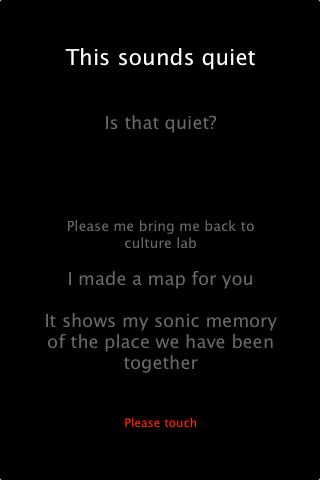
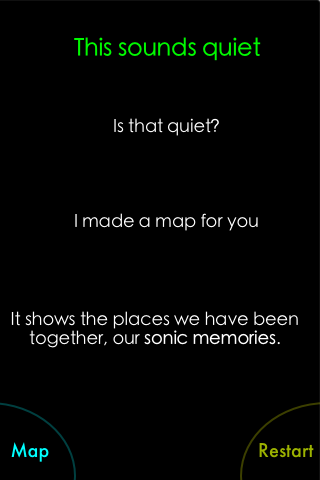
new gui

diff --git a/quietWalkApp/src/endScene.cpp b/quietWalkApp/src/endScene.cpp
@@ -16,8 +16,8 @@ void endScene::draw(){
     else{
         failureEnd.draw(0, 0);
     }
-    ofSetColor(255, 0, 0);
-    ofDrawBitmapString("OPEN MAP PLACEHOLDER BUTTON", ofPoint(0,28));
+   // ofSetColor(255, 0, 0);
+    //ofDrawBitmapString("OPEN MAP PLACEHOLDER BUTTON", ofPoint(0,28));
     ofPopStyle();
 }
 void endScene::stop(){
@@ -36,7 +36,7 @@ void endScene::setState(int _state){
 void endScene::touch(ofPoint touch){
     ofPoint buttPos;
     float w ,h;
-    if(state==0){
+    /*if(state==0){
         buttPos = ofPoint(160,423);
         w = 82;
         h= 38;
@@ -44,14 +44,17 @@ void endScene::touch(ofPoint touch){
         buttPos = ofPoint(160,454);
         w = 92;
         h= 38;
-    }
+    }*/
+   buttPos = ofPoint(240,400);
+    w = 110;
+    h= 110;
     cout<<"touched";
     if(inBounds(buttPos,w,h,touch)){
         stop();
     }
-    ofPoint mapButton= ofPoint(0,0);
-    w = ofGetWidth();
-    h= 28;
+    ofPoint mapButton= ofPoint(0,400);
+    w = 110;
+    h= 110;
     if(inBounds(mapButton,w,h,touch)){
         stop();
         pageOpened= true;

diff --git a/quietWalkApp/src/testApp.mm b/quietWalkApp/src/testApp.mm
@@ -57,7 +57,7 @@ void testApp::update(){
     sceneManager.update(coreLocation->getLatitude(),coreLocation->getLongitude());
     //sceneManager.update(loc.x,loc.y);
     if(sceneManager.getPageOpened()){
-        string url = "http://di.ncl.ac.uk/quietwalk/multixmlmarkers.html";
+        string url = "http://di.ncl.ac.uk/quietwalk/map.html";
         cout<<"page opened in testApp"<<endl;
         ofxiPhoneLaunchBrowser(url);
 //        sceneManager.setPageOpened(false);

diff --git a/quietWalkApp/src/directionScene.cpp b/quietWalkApp/src/directionScene.cpp
@@ -42,9 +42,9 @@ bool directionScene::getSceneHasEnded(){
     return sceneHasEnded;
 }
 void directionScene::touch(ofPoint touch){
-    ofPoint buttPos = ofPoint(98,291);
-    float w = 116;
-    float h= 24;
+    ofPoint buttPos = ofPoint(100,320);
+    float w = 125;
+    float h= 40;
     cout<<"touched";
     if(inBounds(buttPos,w,h,touch)){
         stop();

diff --git a/quietWalkApp/src/welcomeScene.cpp b/quietWalkApp/src/welcomeScene.cpp
@@ -23,9 +23,9 @@ bool welcomeScene::getSceneHasEnded(){
     return sceneHasEnded;
 }
 void welcomeScene::touch(ofPoint touch){
-    ofPoint buttPos = ofPoint(117,417);
-    float w = 97;
-    float h= 27;
+    ofPoint buttPos = ofPoint(100,350);
+    float w = 124;
+    float h= 120;
     cout<<"touched";
     if(inBounds(buttPos,w,h,touch)){
         stop();

diff --git a/quietWalkApp/src/readyScreen.cpp b/quietWalkApp/src/readyScreen.cpp
@@ -1,7 +1,7 @@
 #include "readyScreen.h"
 ////////////////////////---------/////////////////////////////////////
 void readyScreen::setup(){
-    readyScreenImage.loadImage("images/Screen01a.png");
+    readyScreenImage.loadImage("images/Screen01.png");
 }
 void readyScreen::start(){
     sceneHasEnded = false;

diff --git a/quietWalkApp/src/listenScene.cpp b/quietWalkApp/src/listenScene.cpp
@@ -21,7 +21,7 @@ void listenScene::stop(){
     cout<<"sceneHasEnded ";
 }
 void listenScene::update(){
-    int secondsToListen = 3;
+    int secondsToListen = 60;
     if (ofGetElapsedTimeMillis()-millis>1000*(secondsToListen+1)) {
         //checkstatus;
        

diff --git a/quietWalkApp/src/manager.h b/quietWalkApp/src/manager.h
@@ -16,7 +16,7 @@ manager
 #include "mapScene.h"
 #include "ofxiWebUploader.h"
 
-#define MAX_POSS_ATTEMPTS 3
+#define MAX_POSS_ATTEMPTS 6
 
 using namespace std;
 
